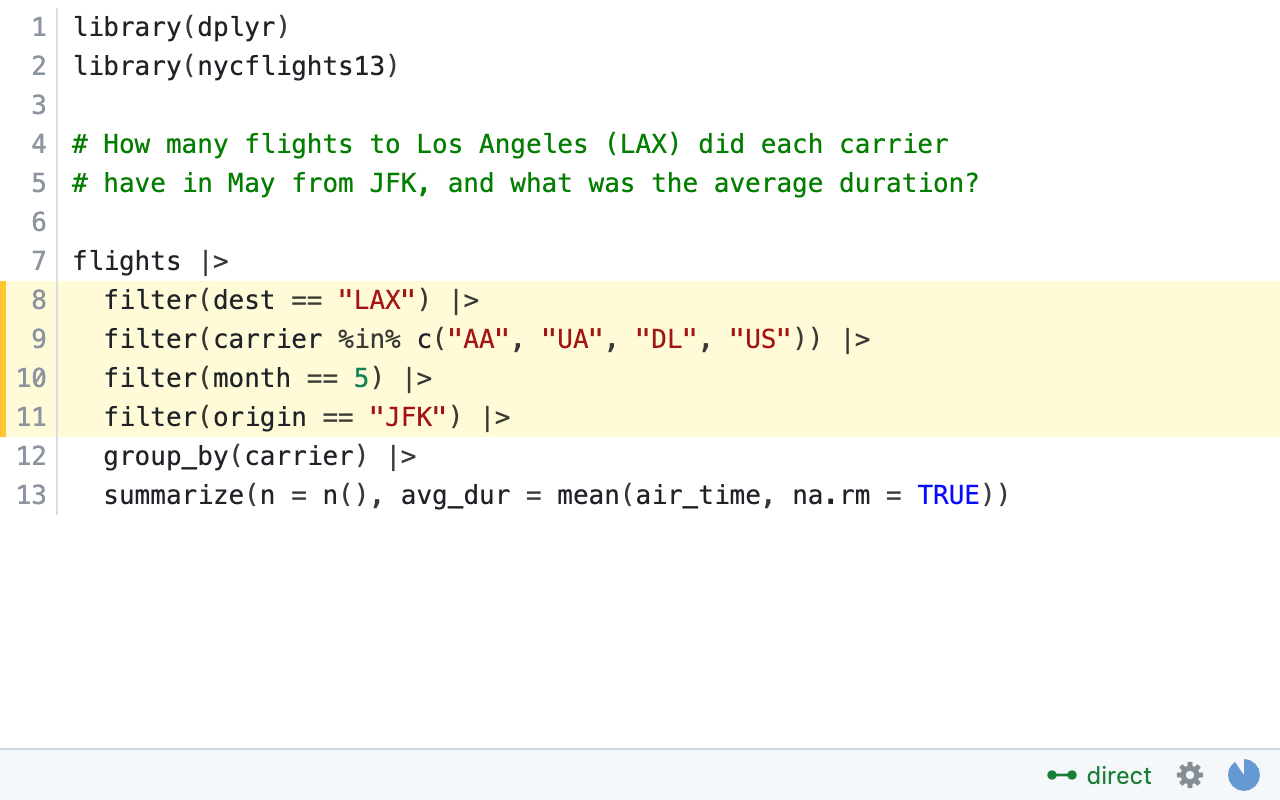
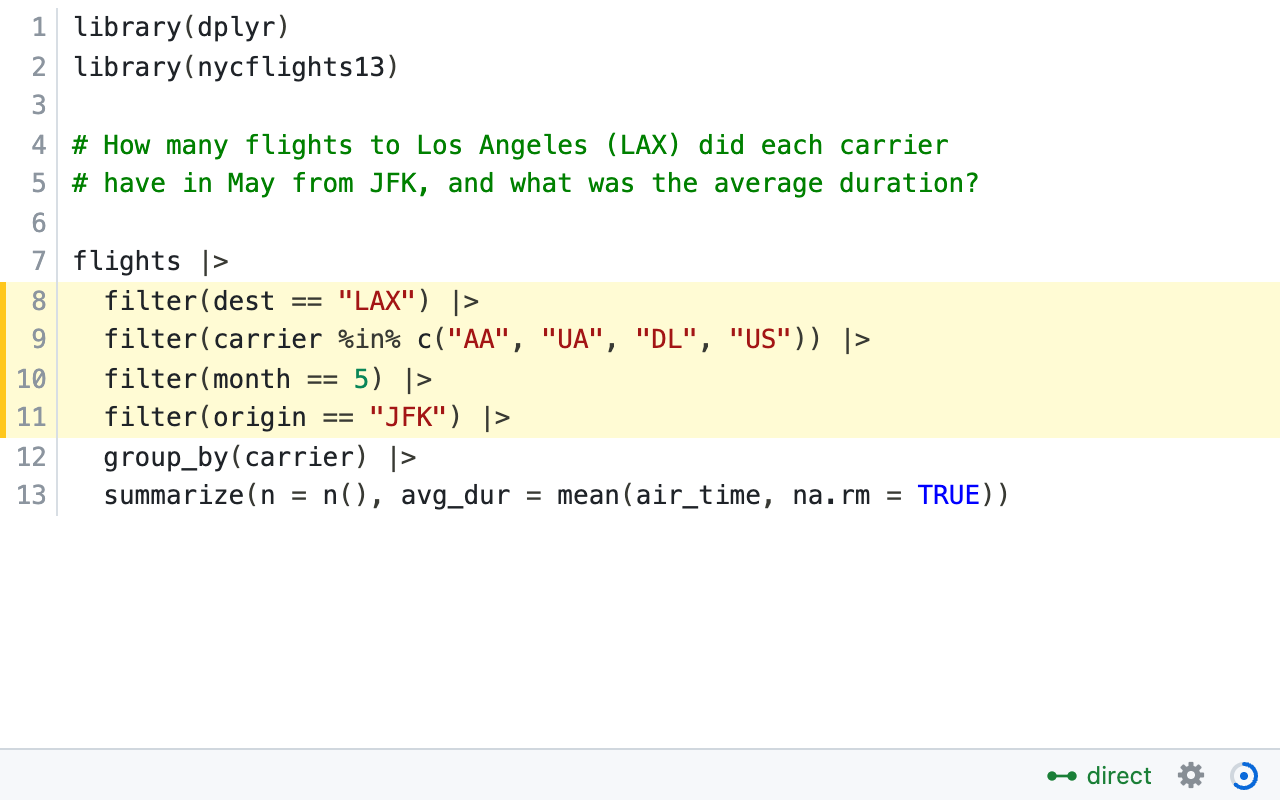
Regenerate README screenshots with a reusable script

diff --git a/tools/screenshots.py b/tools/screenshots.py
@@ -1,0 +1,128 @@
+"""Regenerate the README screenshots in man/figures.
+
+Run from the package root:
+
+    uv run --no-project --with playwright python tools/screenshots.py
+
+It serves an example file with the working copy of the package (through
+pkgload), opens the page in the installed Google Chrome (no browser download
+needed), and writes livecode.png and follow.png. The selection, the
+follower's route, and the progress ring are set on the page directly, so no
+editor or tailcat broadcast is involved.
+"""
+
+import random
+import socket
+import subprocess
+import sys
+import tempfile
+import time
+import urllib.request
+from pathlib import Path
+
+from playwright.sync_api import sync_playwright
+
+ROOT = Path(__file__).resolve().parent.parent
+OUT = ROOT / "man" / "figures"
+
+EXAMPLE = """\
+library(dplyr)
+library(nycflights13)
+
+# How many flights to Los Angeles (LAX) did each carrier
+# have in May from JFK, and what was the average duration?
+
+flights |>
+  filter(dest == "LAX") |>
+  filter(carrier %in% c("AA", "UA", "DL", "US")) |>
+  filter(month == 5) |>
+  filter(origin == "JFK") |>
+  group_by(carrier) |>
+  summarize(n = n(), avg_dur = mean(air_time, na.rm = TRUE))
+"""
+
+# name, viewport width and height (CSS pixels, captured at 2x), route shown
+# in the status bar (None for the instructor's page).
+SHOTS = [
+    ("livecode.png", 784, 392, None),
+    ("follow.png", 640, 400, {"kind": "direct", "relay": ""}),
+]
+
+# Waits for the first update, then sets the selection and route and holds the
+# ring partway through filling with its dot at rest.
+PREPARE = """async (route) => {
+  const pb = document.getElementById('progressbar');
+  for (let i = 0; i < 100 && !pb.hasAttribute('data-active'); i++)
+    await new Promise(r => setTimeout(r, 50));
+  window.livecode.handleFrame(JSON.stringify({selection: '8-11', route: route}));
+  const arc = document.querySelector('.livecode-progress-arc').getAnimations()[0];
+  arc.pause();
+  arc.currentTime = arc.effect.getTiming().duration * 0.62;
+  document.querySelector('.livecode-progress-dot').getAnimations().forEach(a => a.finish());
+}"""
+
+
+# livecode accepts ports 1024 to 49151 only, below the OS's ephemeral range.
+def free_port():
+    for port in random.sample(range(20000, 49151), 50):
+        with socket.socket() as s:
+            try:
+                s.bind(("127.0.0.1", port))
+                return port
+            except OSError:
+                continue
+    sys.exit("No free port found.")
+
+
+def wait_for(url, timeout=60):
+    deadline = time.time() + timeout
+    while time.time() < deadline:
+        try:
+            urllib.request.urlopen(url, timeout=1)
+            return
+        except OSError:
+            time.sleep(0.5)
+    sys.exit(f"The server at {url} did not start.")
+
+
+def main():
+    port = free_port()
+    url = f"http://127.0.0.1:{port}/"
+
+    with tempfile.TemporaryDirectory() as tmp:
+        example = Path(tmp) / "example.R"
+        example.write_text(EXAMPLE)
+        # A long interval, so no update restarts the ring while it is held.
+        code = (
+            "options(livecode.editor = 'none'); "
+            "pkgload::load_all(quiet = TRUE); "
+            f"livecode::serve_file('{example}', ip = '127.0.0.1', port = {port}, "
+            "open_browser = FALSE, block = TRUE, interval = 60)"
+        )
+        server = subprocess.Popen(
+            ["Rscript", "-e", code], cwd=ROOT,
+            stdout=subprocess.DEVNULL, stderr=subprocess.DEVNULL,
+        )
+        try:
+            wait_for(url)
+            with sync_playwright() as p:
+                browser = p.chromium.launch(channel="chrome")
+                for name, width, height, route in SHOTS:
+                    page = browser.new_page(
+                        viewport={"width": width, "height": height},
+                        device_scale_factor=2,
+                    )
+                    page.goto(url)
+                    page.evaluate(PREPARE, route)
+                    page.wait_for_timeout(300)
+                    page.screenshot(path=OUT / name)
+                    page.close()
+                    print(f"Wrote {OUT / name}")
+                browser.close()
+        finally:
+            server.terminate()
+            server.wait(timeout=10)
+
+
+if __name__ == "__main__":
+    main()
